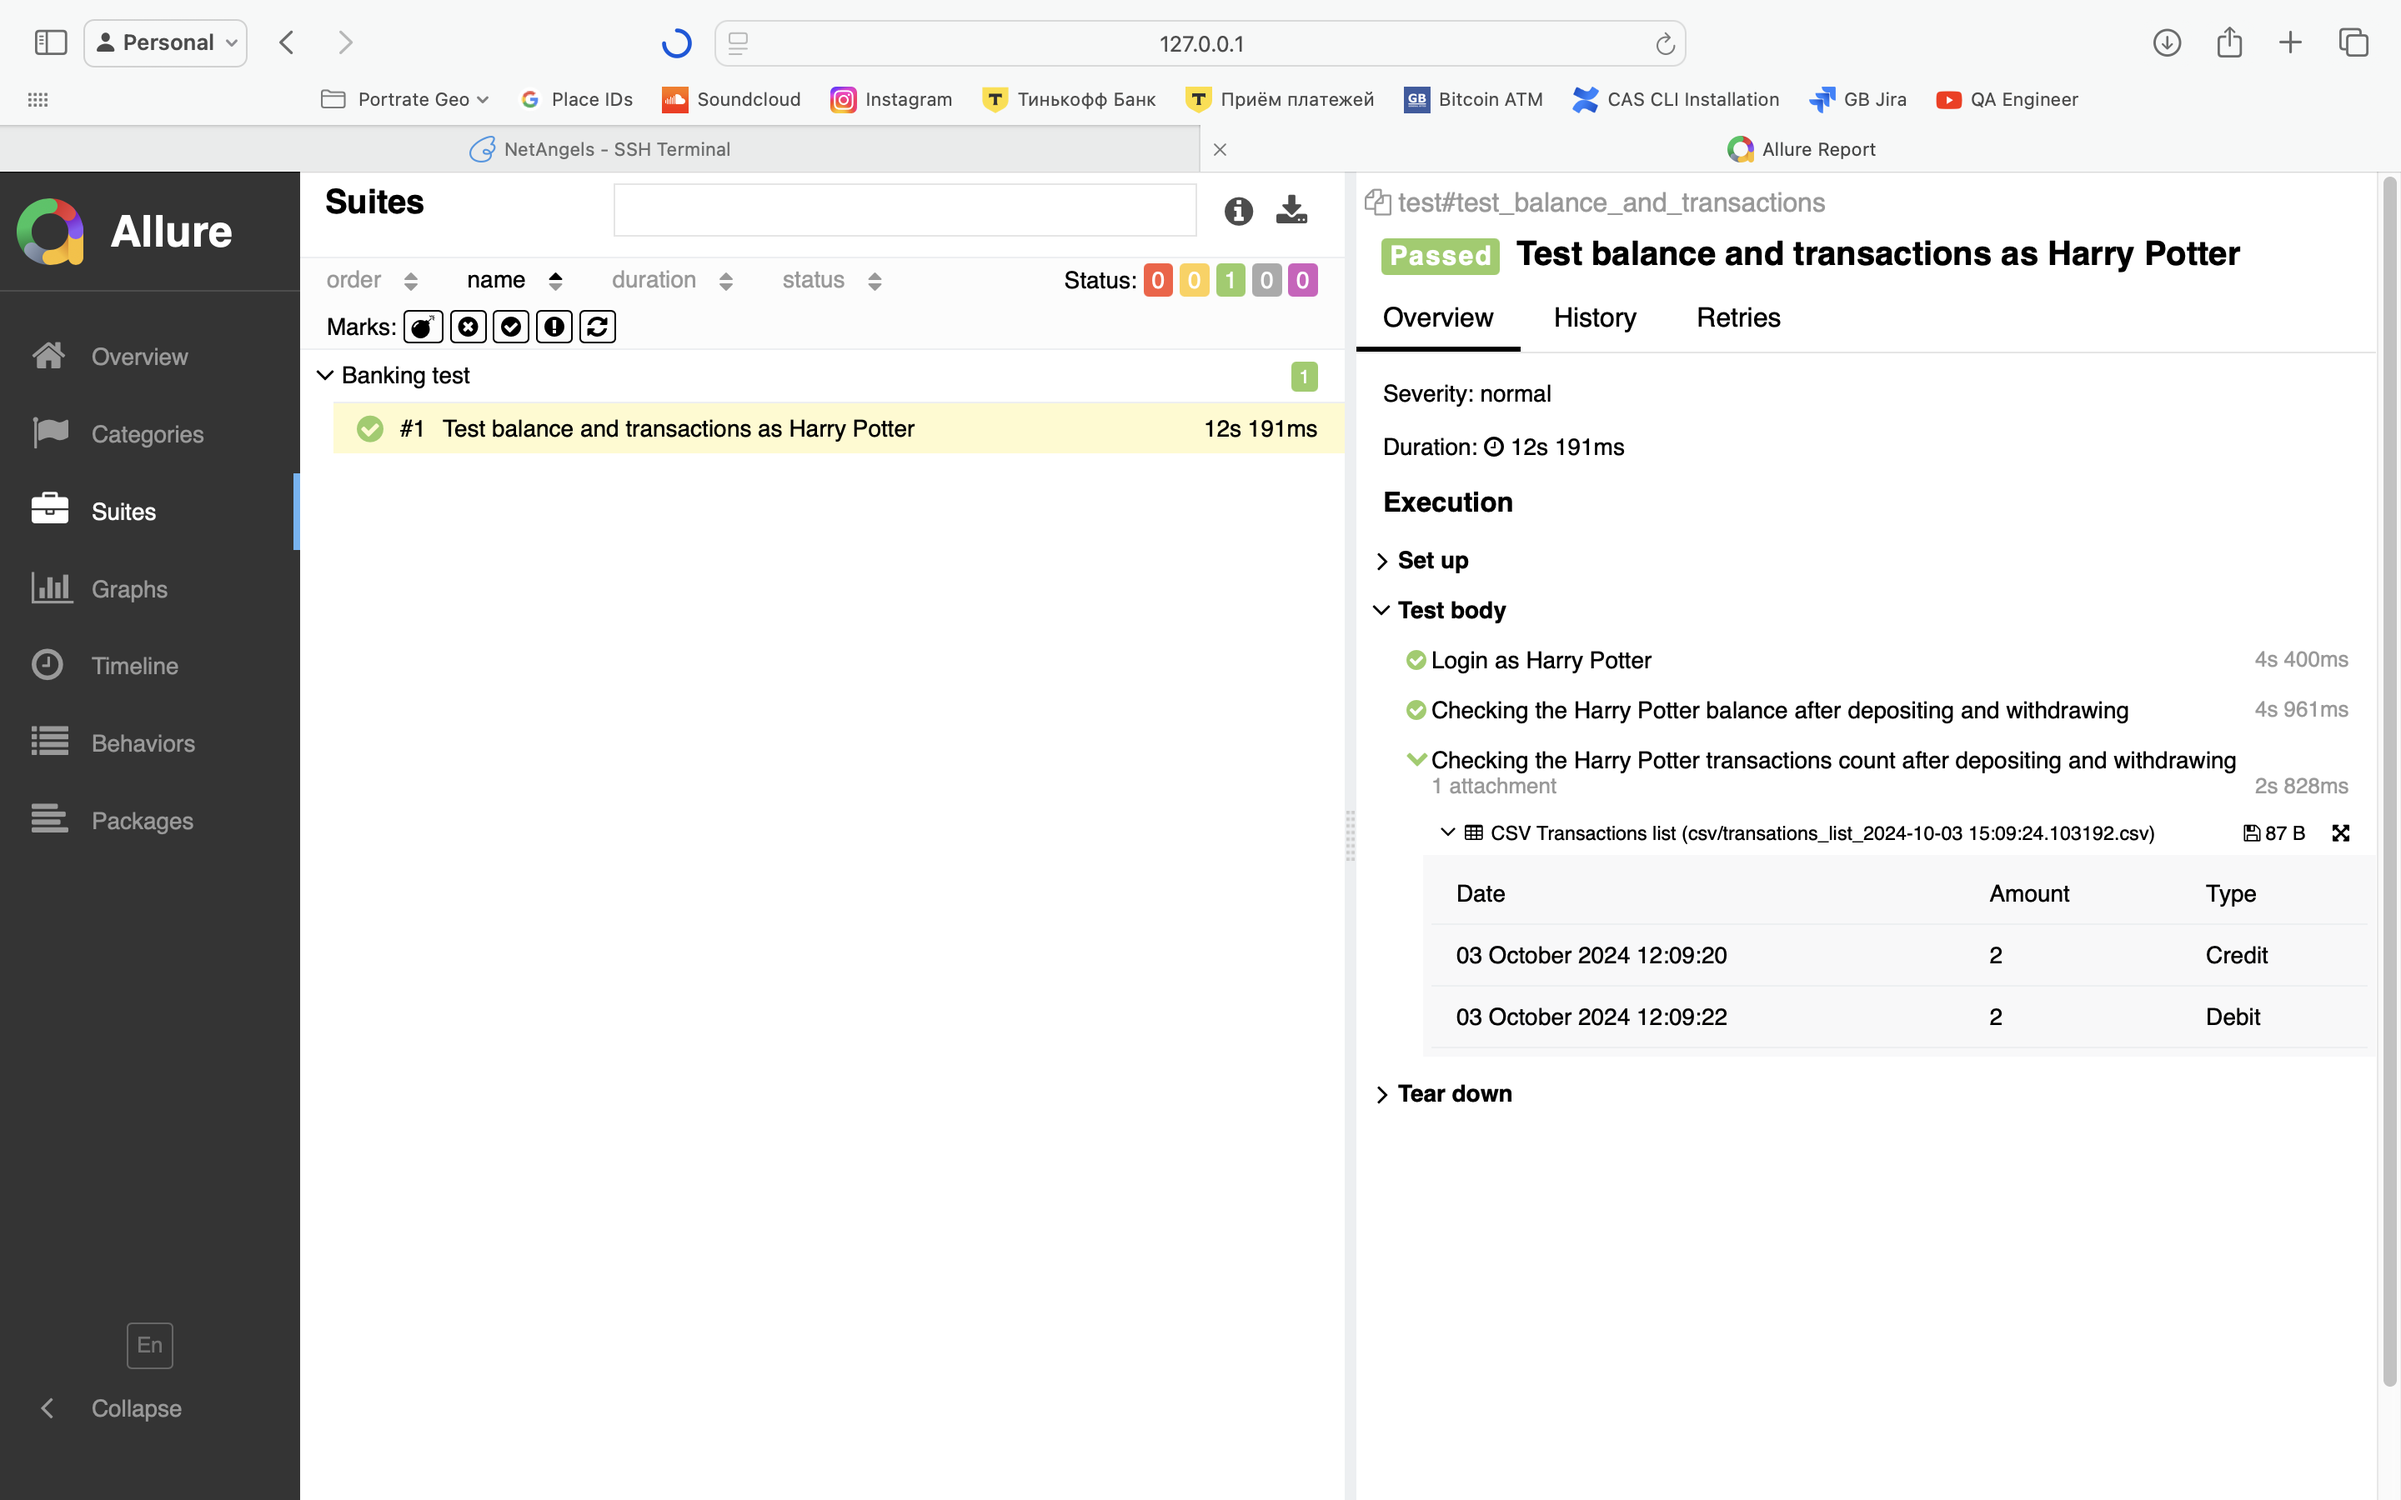
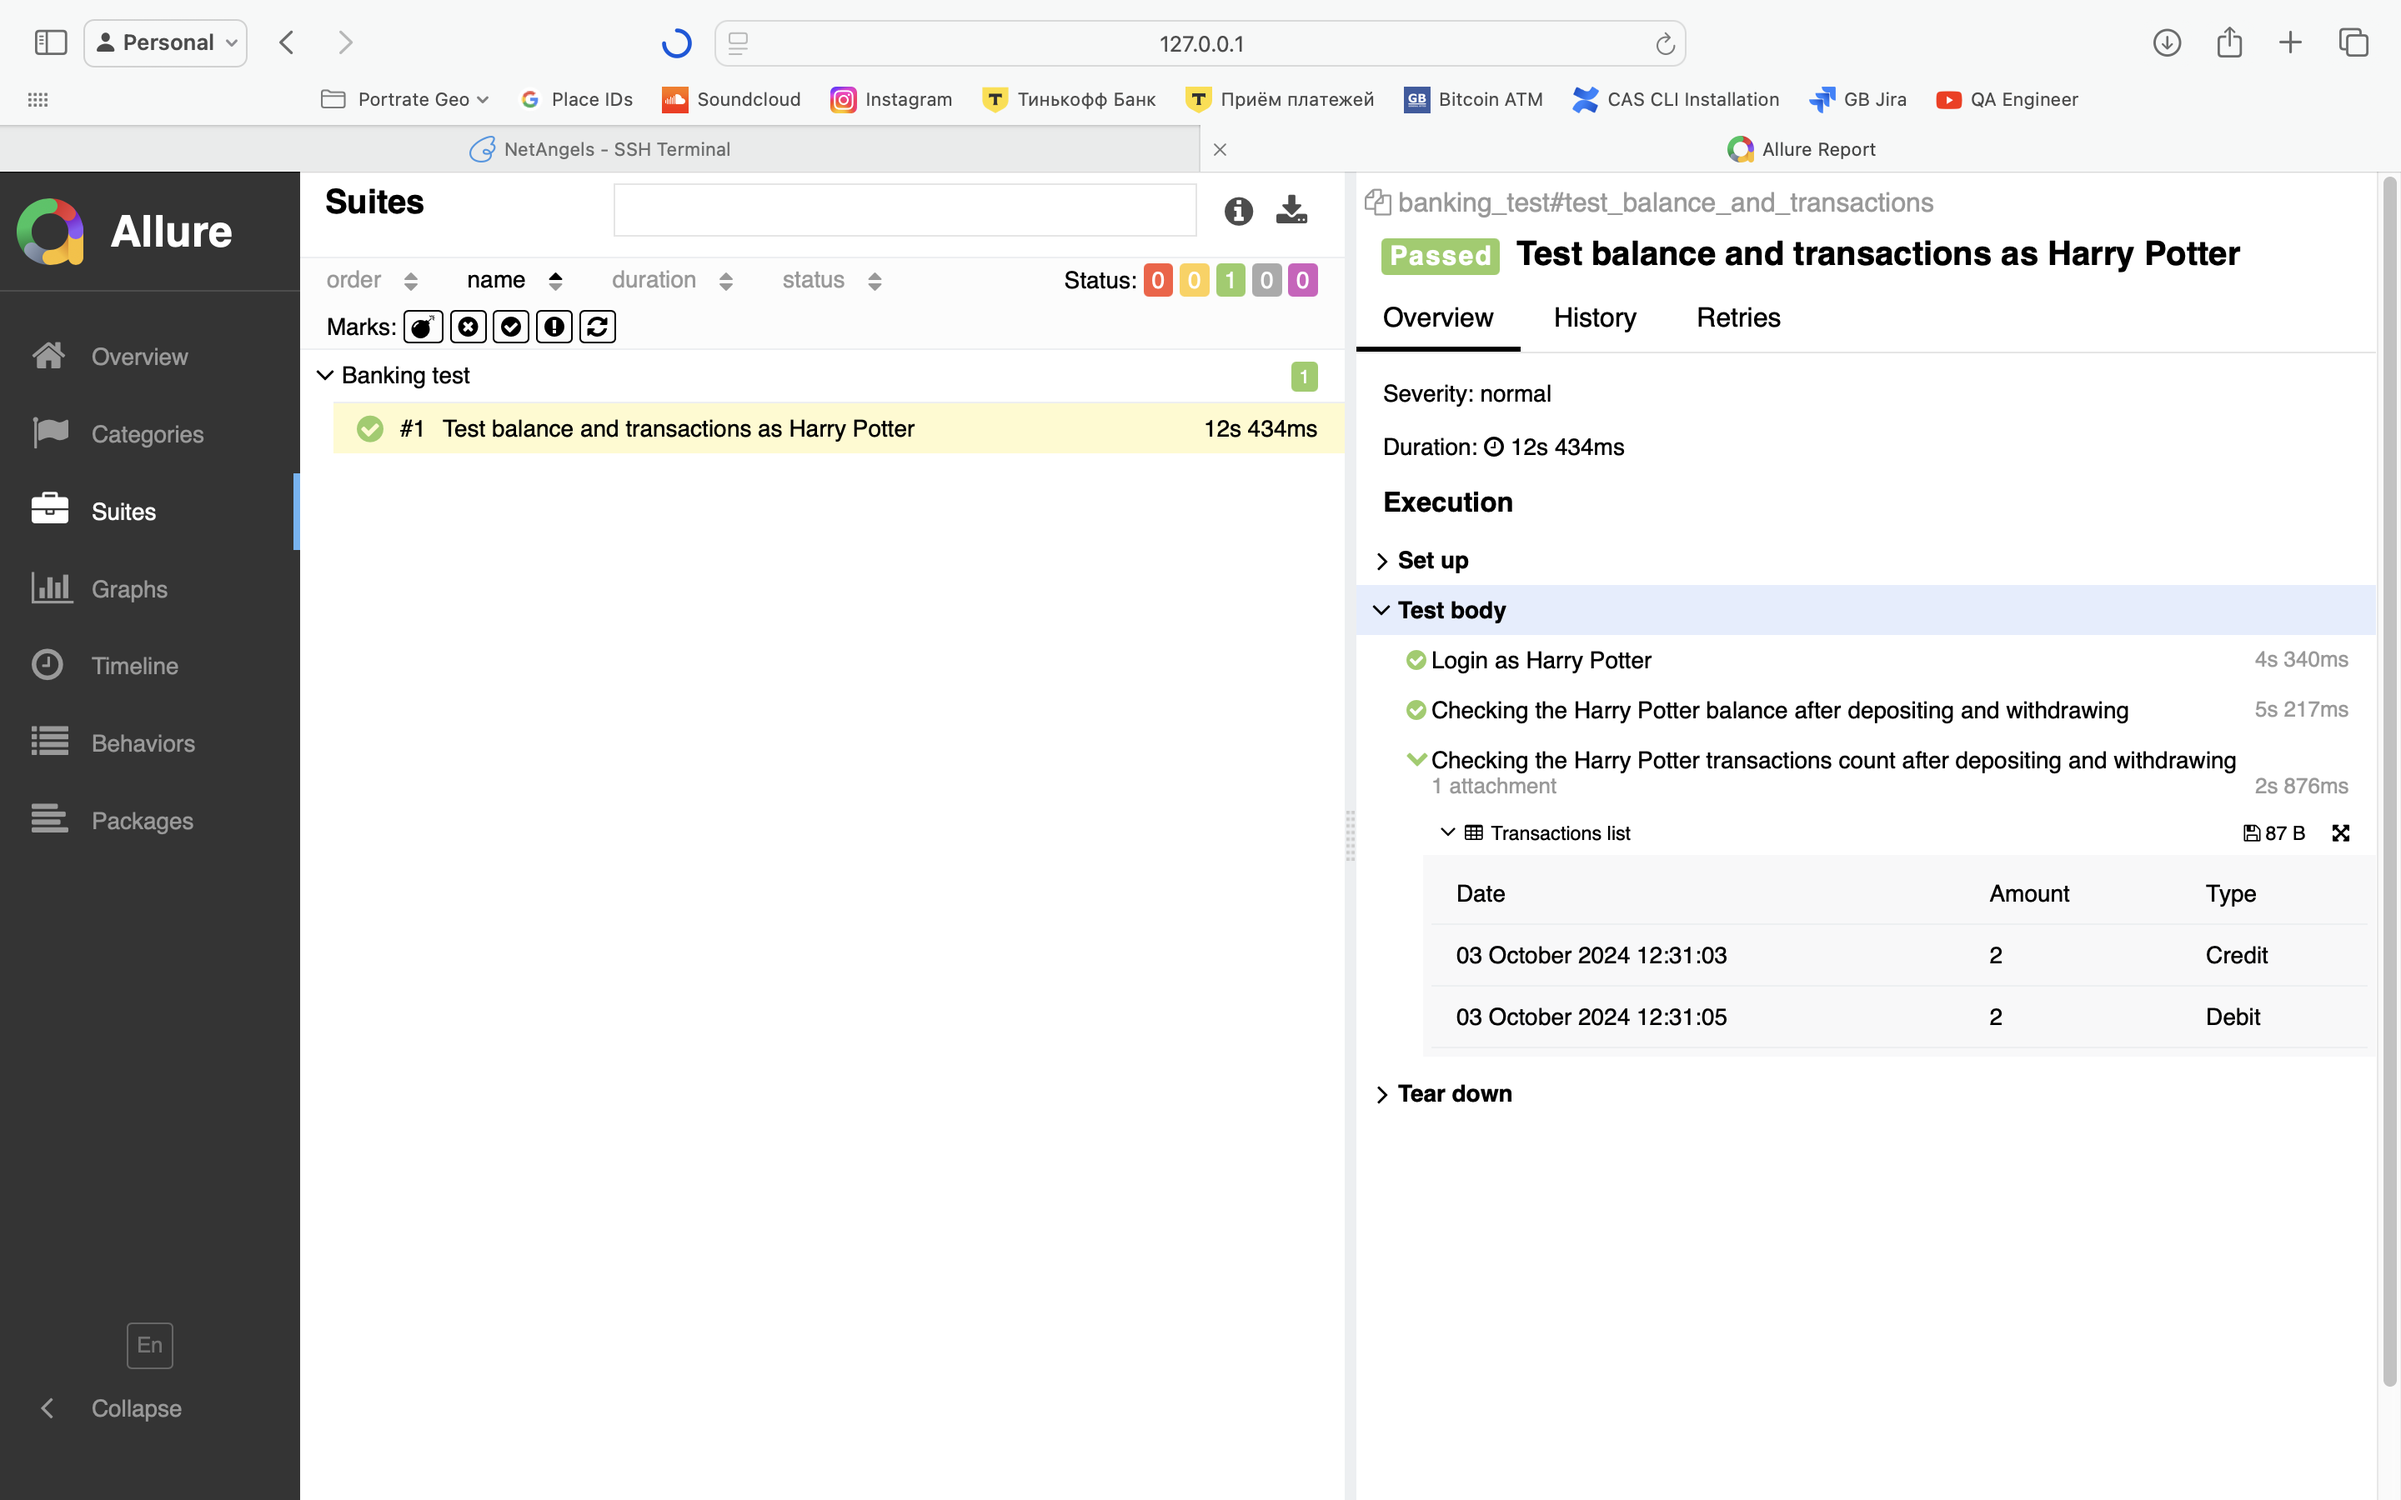
Чуть подрефакторил

diff --git a/banking_test.py b/banking_test.py
@@ -1,0 +1,47 @@
+import allure
+
+from driver import driver
+from utils import write_transactions_csv
+from pages import Account, Customer, Login, Transactions
+
+base_url = "https://www.globalsqa.com"
+
+@allure.suite("Banking test")
+@allure.story("Checking the users balance and the count of transactions after depositing and withdrawing")
+@allure.title("Test balance and transactions as Harry Potter")
+def test_balance_and_transactions(driver):
+    with allure.step("Login as Harry Potter"):
+        login_page = Login(driver, base_url)
+        (
+            login_page
+            .open()
+            .click_login_button()
+        )
+
+        customer_page = Customer(driver, base_url)
+        (
+            customer_page
+            .open()
+            .change_user_select()
+            .submit_user_form()
+        )
+
+    with allure.step("Checking the Harry Potter balance after depositing and withdrawing"):
+        account_page = Account(driver, base_url)
+        (
+            account_page
+            .open()
+            .click_deposit_button()
+            .change_deposit_amount_input()
+            .submit_deposit_form()
+            .click_withdrawl_button()
+            .change_withdrawl_amount_input()
+            .submit_withdrawl_form()
+        )
+        assert int(account_page.balance) == 0
+
+    with allure.step("Checking the Harry Potter transactions count after depositing and withdrawing"):
+        transactions_page = Transactions(driver, base_url).open()
+        filename = write_transactions_csv(transactions_page.transactions)
+        allure.attach.file(filename, name=f"Transactions list", attachment_type=allure.attachment_type.CSV)
+        assert len(transactions_page.transactions) == 2

diff --git a/utils.py b/utils.py
@@ -1,0 +1,24 @@
+import csv
+# import locale
+from datetime import datetime
+from dateutil.parser import parse
+
+def write_transactions_csv(transactions):
+    # Не очень понятно, в тз написано ДД Месяц ГГГГ ЧЧ:ММ:СС, если дата нужна на русском то нужно сетнуть локаль
+    # locale.setlocale(locale.LC_ALL, "ru_RU.UTF-8")
+    transaction_types = ("Credit", "Debit")
+    filename = f"csv/transations_list_{datetime.now()}.csv"
+
+    with open(filename, "w") as file:
+        writer = csv.writer(file, delimiter=",")
+        writer.writerow(("Date", "Amount", "Type"))
+
+        for transaction in transactions:
+            writer.writerow((
+                parse(transaction.date).strftime("%d %B %Y %H:%M:%S"),
+                int(transaction.amount),
+                transaction.type if transaction.type in transaction_types else "Unknown transaction type"
+            ))
+
+    # locale.setlocale(locale.LC_ALL, "")
+    return filename

diff --git a/driver.py b/driver.py
@@ -1,0 +1,17 @@
+import pytest
+from selenium import webdriver
+
+
+options = webdriver.ChromeOptions()
+options.set_capability("selenoid:options", {
+    "enableVNC": True,
+    "screenResolution": "1280x1024x24",
+    "env": ["LANG=ru_RU.UTF-8", "LANGUAGE=ru", "LC_ALL=ru_RU.UTF-8"]
+})
+
+@pytest.fixture(scope="session")
+def driver():
+    driver = webdriver.Remote(command_executor="http://185.93.109.120:4444/wd/hub", options=options)
+    driver.implicitly_wait(5)
+    yield driver
+    driver.quit()

diff --git a/README.md b/README.md
@@ -3,7 +3,7 @@
 Установка окружение и запуск теста (Python3.12, venv):
 
 - pip install -r requirements.txt
-- pytest --alluredir=./reports test.py
+- pytest --alluredir=./reports banking_test.py
 
 Запуски Allure
 
